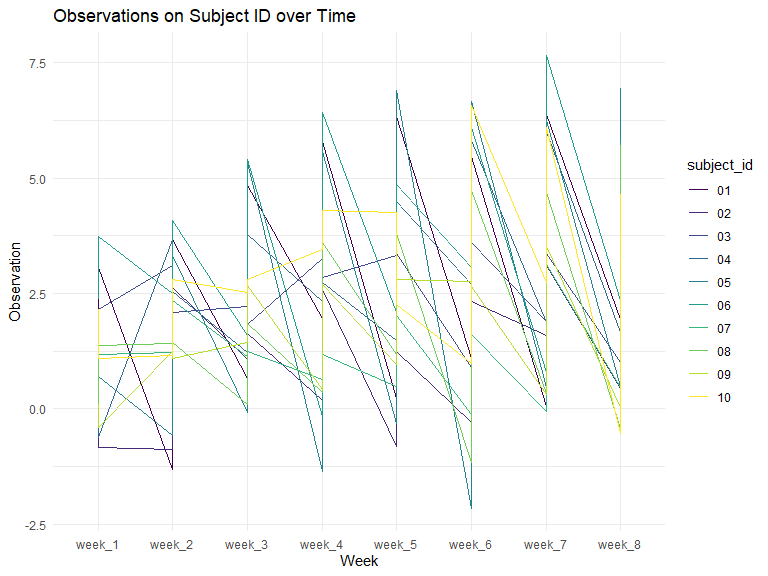
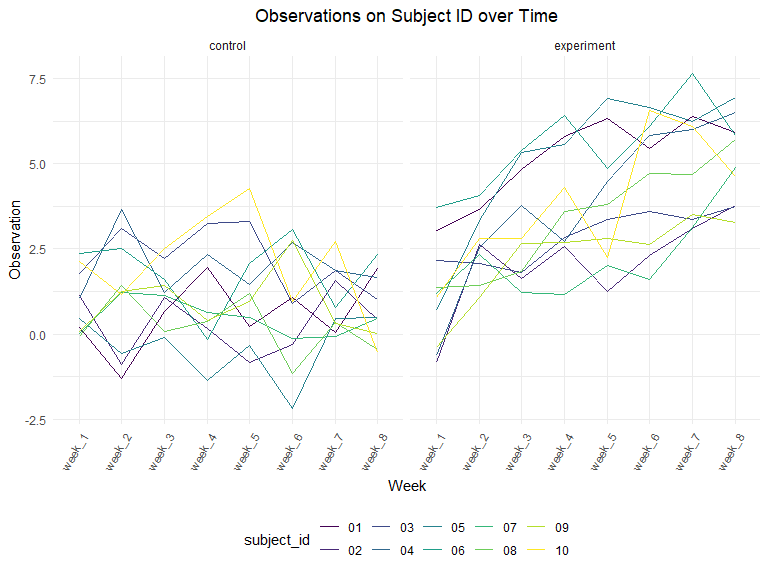
Problem 2

diff --git a/p8105_hw5_qra2000.md b/p8105_hw5_qra2000.md
@@ -1,9 +1,9 @@
 p8105_hw5_qra2000
 ================
 Quinn Anderson
-2023-11-13
+2023-11-14
 
-## Setup and load libraries
+### Setup, load libraries, and set seed for reproducibility.
 
 ``` r
 library(tidyverse)
@@ -28,7 +28,9 @@ knitr::opts_chunk$set(
   fig.height = 6,
   out.width = "90%")
 
-theme_set(theme_minimal() + theme(legend.position = "bottom"))
+theme_set(
+  theme_minimal() +
+  theme(legend.position = "bottom", plot.title = element_text(hjust = 0.5)))
 
 options(
   ggplot2.continuous.colour = "viridis",
@@ -76,9 +78,6 @@ tidy_study_data
     ## 10 control 02         week_2       -0.88
     ## # ℹ 150 more rows
 
-Below is a spaghetti plot showing observations on each subject over
-time.
-
 ``` r
 tidy_study_data |> 
   ggplot(aes(x = week, y = observation, group = subject_id, color = subject_id)) +
@@ -87,12 +86,20 @@ tidy_study_data |>
     title = "Observations on Subject ID over Time",
        x = "Week",
        y = "Observation") +
-  theme_minimal()
+  facet_grid(~control) +
+  theme(axis.text.x = element_text(angle = 60, hjust = 1))
 ```
 
 <img src="p8105_hw5_qra2000_files/figure-gfm/unnamed-chunk-2-1.png" width="90%" />
 
-^^^
+The spaghetti plot above shows observations on each subject over time
+(weeks) during the course of the longitudinal study separated by control
+and experimental groups. The observations in the experimental group
+increase over the eight weeks, while the observations in the control
+group decrease. Subject \#07 in the experimental group has the highest
+number of observations at 7.5 at week 7. Subject \#06 in the control
+group has the lowest number of observations at around -2.4.
 
-The spaghetti plot shows observations on each subject over time for the
-course of the longitudinal study. \[put more description here\]
+## Problem 3
+
+First, load the samples.
